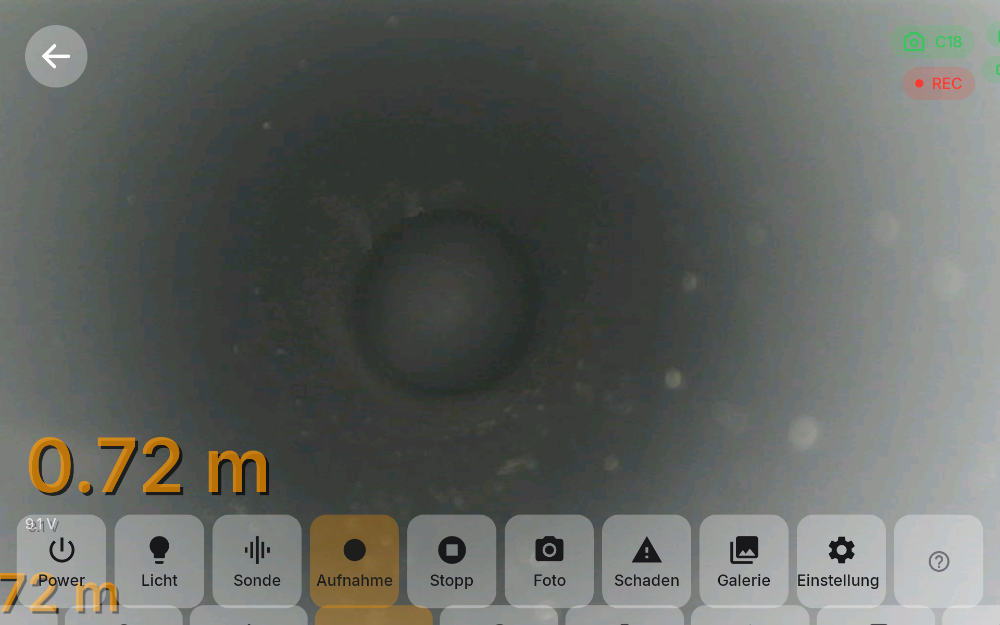
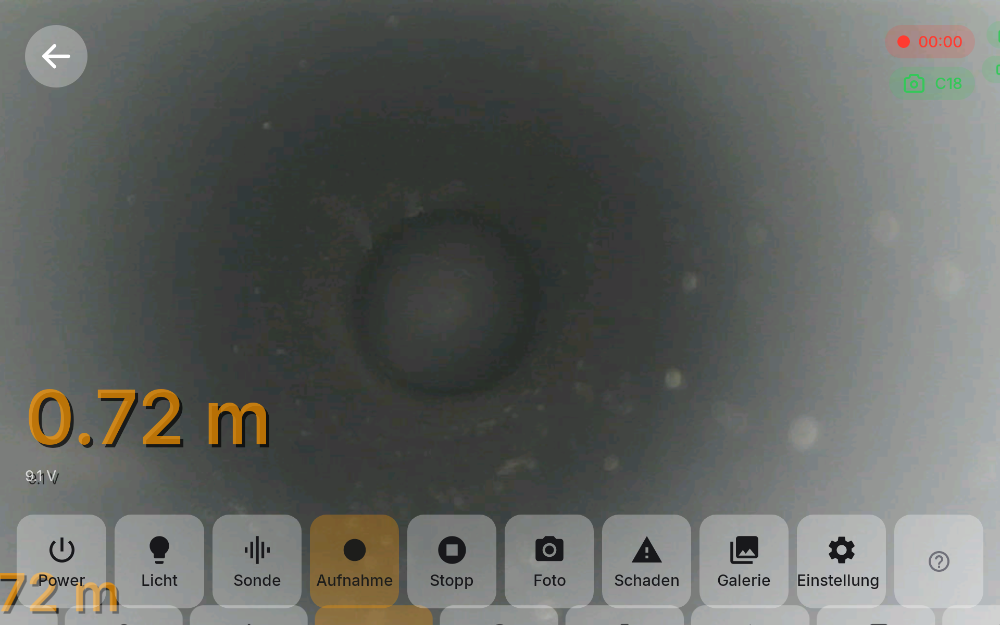
fix(bedienbild Z-1/Z-2): Meterwert oberhalb des Bandes, Aufnahmezeile statt REC-Chip
Z-1: Meterwert-Abstand zum unteren Bedienband kommt jetzt aus der gemessenen
Bandhoehe (onSizeChanged + OsdBottomGap 8dp) statt aus dem festen, nicht mehr
zur Bandhoehe passenden bottom = 84.dp (Ursache F-1, PLAN.md Abschnitt 2).

Z-2: neue RecordingClock (reines Kotlin, JVM-testbar) ersetzt die tote
recordingElapsed/recordingStartTime-Logik (F-3, kein Leser, Drift durch
delay(1000)). Neue erste Zeile oben rechts (12-dp-Punkt, 1-Hz-Blinken bei
RECORDING, Amber fest bei PAUSED, Laufzeit hh:mm:ss/mm:ss) ersetzt den
bisherigen, kaum erkennbaren REC/PAUSE-Chip (F-2, Entscheidung E-2).
DqStatusChip bekommt einen optionalen leading-Parameter (rueckwaertskompatibel).

RecordingClockTest.kt: 4 Tests, einmal rot gegen ein leeres Geruest gefahren
(belege/z2_test_rot.txt), dann gruen gegen die echte Klasse.
grep -n recordingElapsed app/src/main -> 0 Treffer.

Geraete-Beleg (Fotos/Logcat) nicht erbracht: kein Geraet angeschlossen
(adb devices leer) — siehe BERICHT.md.

Claude-Session: https://claude.ai/code/session_01EKJ9vqNUacCQh5kPLZ1moj

Changed region(s): [[0.031, 0.608, 0.279, 0.7904], [0.868, 0.0304, 0.992, 0.1824], [0.031, 0.8208, 0.062, 0.8512]]

diff --git a/app/src/main/java/com/uip/oneapp/ui/screens/inspection/InspectionScreen.kt b/app/src/main/java/com/uip/oneapp/ui/screens/inspection/InspectionScreen.kt
@@ -26,10 +26,13 @@ import androidx.compose.foundation.gestures.detectTapGestures
 import androidx.compose.foundation.gestures.detectTransformGestures
 import androidx.compose.foundation.layout.*
 import androidx.compose.foundation.rememberScrollState
+import androidx.compose.foundation.shape.CircleShape
 import androidx.compose.foundation.shape.RoundedCornerShape
+import androidx.compose.ui.draw.alpha
 import androidx.compose.foundation.verticalScroll
 import androidx.compose.ui.draw.clip
 import androidx.compose.ui.draw.rotate
+import androidx.compose.ui.layout.onSizeChanged
 import androidx.compose.ui.platform.LocalDensity
 import androidx.compose.ui.unit.IntOffset
 import androidx.compose.ui.unit.IntRect
@@ -93,6 +96,7 @@ import com.uip.oneapp.ui.screens.projects.cameraTypePrefill
 import com.uip.oneapp.ui.screens.settings.SettingsViewModel
 import com.uip.oneapp.ui.screens.settings.settingsStore
 import com.uip.oneapp.ui.theme.*
+import kotlinx.coroutines.isActive
 import kotlinx.coroutines.flow.collect
 import kotlinx.coroutines.flow.distinctUntilChanged
 import kotlinx.coroutines.flow.map
@@ -186,6 +190,12 @@ fun InspectionScreen(
     // Unteres Bedien-Band: nicht mehr permanent — fährt nur auf Video-Tipp ein und
     // blendet nach ~4 s Inaktivität bzw. erneutem Tipp wieder aus.
     var showBottomBar by remember { mutableStateOf(previewShowBottomBar) }
+    // Gemessene Höhe des unteren Bands (Auftrag bedienbild Z-1) — Startwert vor der ersten
+    // Messung, damit kein erstes Bild mit Überdeckung entsteht; die Messung ersetzt ihn danach.
+    val osdDensity = LocalDensity.current
+    var bottomBarHeightPx by remember {
+        mutableIntStateOf(with(osdDensity) { (Dimensions.SoftButtonHeight + Dimensions.Space16 * 2).roundToPx() })
+    }
     var lastBottomBarMs by remember { mutableLongStateOf(0L) }
     var lastInteractionMs by remember { mutableLongStateOf(0L) }
     var videoScale by remember { mutableFloatStateOf(1f) }
@@ -253,8 +263,6 @@ fun InspectionScreen(
     var recordingFilePath by remember { mutableStateOf<String?>(null) }
     var showRecordingDialog by remember { mutableStateOf(false) }
     var exoPlayerRef by remember { mutableStateOf<ExoPlayer?>(null) }
-    var recordingStartTime by remember { mutableLongStateOf(0L) }
-    var recordingElapsed by remember { mutableStateOf("00:00") }
     var showProjectName by remember { mutableStateOf(false) }
     var recordingProjectName by remember { mutableStateOf("") }
 
@@ -356,30 +364,59 @@ fun InspectionScreen(
         }
     }
 
-    // Recording duration timer + overlay entry collection
+    // Overlay entry collection (Zeitanzeige jetzt ueber RecordingClock/recIndicator, Auftrag
+    // bedienbild Z-2 — die alte Zeitanzeige-Variable (F-3, toter Schreibzugriff) ist entfernt).
     LaunchedEffect(isRecording) {
         if (isRecording) {
-            recordingStartTime = System.currentTimeMillis()
             showProjectName = true
             while (true) {
                 if (localRecorder.isPaused) {
-                    // Pause: Startzeit mitschieben, damit der Timer stehen bleibt —
-                    // die Pausenzeit zählt nicht zur Aufnahmedauer (Video enthält sie nicht).
-                    recordingStartTime += 1000
                     kotlinx.coroutines.delay(1000)
                     continue
                 }
-                val elapsed = (System.currentTimeMillis() - recordingStartTime) / 1000
-                val min = elapsed / 60
-                val sec = elapsed % 60
-                recordingElapsed = String.format("%02d:%02d", min, sec)
                 // Phase 5: update FFmpegRtspRecorder drawtext file with current OSD line2
                 ffmpegRecorder.updateOsdLine2(buildOsdLine2(meterValue, osdSettings))
                 kotlinx.coroutines.delay(1000)
             }
         } else {
-            recordingElapsed = "00:00"
             showProjectName = false
+        }
+    }
+
+    // Auftrag bedienbild Z-2: Anzeigezustand der neuen Aufnahmezeile — genau sichtbar bei
+    // laufend/pausiert/wird fertiggestellt, nie bei blosser offener Inspektion.
+    val recIndicator = when {
+        localRecState == com.uip.oneapp.network.RecordingState.FINISHING ->
+            com.uip.oneapp.network.RecordingState.FINISHING
+        localRecState == com.uip.oneapp.network.RecordingState.PAUSED ->
+            com.uip.oneapp.network.RecordingState.PAUSED
+        isRecording || localRecState == com.uip.oneapp.network.RecordingState.RECORDING ->
+            com.uip.oneapp.network.RecordingState.RECORDING
+        else -> null
+    }
+    val recordingClock = remember { RecordingClock() }
+    LaunchedEffect(recIndicator) { recIndicator?.let { recordingClock.onState(it) } }
+    var recElapsedDisplay by remember { mutableStateOf(formatElapsed(0L)) }
+    LaunchedEffect(recIndicator) {
+        while (recIndicator == com.uip.oneapp.network.RecordingState.RECORDING) {
+            recElapsedDisplay = formatElapsed(recordingClock.elapsedMs())
+            kotlinx.coroutines.delay(500)
+        }
+        if (recIndicator != null) {
+            recElapsedDisplay = formatElapsed(recordingClock.elapsedMs())
+        }
+    }
+    var recDotVisible by remember { mutableStateOf(true) }
+    LaunchedEffect(recIndicator == com.uip.oneapp.network.RecordingState.RECORDING) {
+        if (recIndicator == com.uip.oneapp.network.RecordingState.RECORDING) {
+            var on = true
+            while (isActive) {
+                recDotVisible = on
+                on = !on
+                kotlinx.coroutines.delay(500)
+            }
+        } else {
+            recDotVisible = true
         }
     }
 
@@ -751,7 +788,10 @@ fun InspectionScreen(
             voltage = cable.batteryLevel?.let { it / 100f * 12.6f } ?: 0f,
             modifier = Modifier
                 .align(Alignment.BottomStart)
-                .padding(start = Dimensions.OsdPadding, bottom = 84.dp)
+                .padding(
+                    start = Dimensions.OsdPadding,
+                    bottom = with(osdDensity) { bottomBarHeightPx.toDp() } + Dimensions.OsdBottomGap
+                )
         )
 
         // Popups erscheinen direkt ÜBER der jeweiligen Taste (wie Original showUpView):
@@ -793,7 +833,8 @@ fun InspectionScreen(
         Row(
             modifier = Modifier
                 .fillMaxWidth()
-                .padding(horizontal = Dimensions.Space16, vertical = Dimensions.Space16),
+                .padding(horizontal = Dimensions.Space16, vertical = Dimensions.Space16)
+                .onSizeChanged { bottomBarHeightPx = it.height },
             horizontalArrangement = Arrangement.spacedBy(Dimensions.Space8),
             verticalAlignment = Alignment.CenterVertically
         ) {
@@ -1010,6 +1051,37 @@ fun InspectionScreen(
             verticalArrangement = Arrangement.spacedBy(Dimensions.Space8),
             horizontalAlignment = Alignment.End
         ) {
+            // Auftrag bedienbild Z-2 (F-2/F-3): eigene, dritte Zeile fuer den Aufnahmezustand —
+            // ersetzt den bisherigen REC/PAUSE-Chip neben dem Akku (Entscheidung E-2, nur EINE
+            // Anzeige). Punkt 12 dp statt der unauffaelligen 8 dp, Blinken 1 Hz bei RECORDING,
+            // fest sichtbar bei PAUSED (Amber), Laufzeit aus RecordingClock (F-3).
+            if (recIndicator != null) {
+                val recLabel = when (recIndicator) {
+                    com.uip.oneapp.network.RecordingState.FINISHING -> S("encoding")
+                    else -> recElapsedDisplay
+                }
+                val recColor = if (recIndicator == com.uip.oneapp.network.RecordingState.PAUSED) {
+                    DrainQTheme.colors.amber
+                } else {
+                    DrainQTheme.colors.error
+                }
+                DqStatusChip(
+                    text = recLabel,
+                    color = recColor,
+                    showDot = false,
+                    leading = {
+                        if (recIndicator != com.uip.oneapp.network.RecordingState.FINISHING) {
+                            Box(
+                                Modifier
+                                    .size(Dimensions.RecDotSize)
+                                    .alpha(if (recDotVisible) 1f else 0f)
+                                    .clip(CircleShape)
+                                    .background(recColor)
+                            )
+                        }
+                    }
+                )
+            }
             // Kamerakopf-Chip — Live-Anzeige (NICHT im Projekt gespeichert), gespeist aus
             // der seriellen GROUP_CAMERA-Telemetrie (debounced payload[4]).
             // Detektion (C10=0x01/C18=0x02) hat Vorrang; bei UNKNOWN greift der manuelle
@@ -1032,15 +1104,6 @@ fun InspectionScreen(
                 horizontalArrangement = Arrangement.spacedBy(Dimensions.Space8),
                 verticalAlignment = Alignment.CenterVertically
             ) {
-                if (isRecording || localRecState == com.uip.oneapp.network.RecordingState.FINISHING) {
-                    val recLabel = when {
-                        localRecState == com.uip.oneapp.network.RecordingState.FINISHING -> S("encoding")
-                        isRecordingPaused -> "PAUSE"
-                        else -> "REC"
-                    }
-                    val recColor = if (isRecordingPaused) DrainQTheme.colors.amber else DrainQTheme.colors.error
-                    DqStatusChip(text = recLabel, color = recColor, showDot = !isRecordingPaused)
-                }
                 // Nur EIN Chip in der Ecke: Akku des Android-Systems (immer sichtbar).
                 // < 20 % = error, sonst success. Beim Laden Lade-Icon statt Akku-Icon.
                 // Hinweis: der serielle cable.batteryLevel/GROUP_CAMERA-Pfad ist hierfür tot.

diff --git a/app/src/test/java/com/uip/oneapp/ui/screens/inspection/RecordingClockTest.kt b/app/src/test/java/com/uip/oneapp/ui/screens/inspection/RecordingClockTest.kt
@@ -1,0 +1,56 @@
+package com.uip.oneapp.ui.screens.inspection
+
+import com.uip.oneapp.network.RecordingState
+import org.junit.Assert.assertEquals
+import org.junit.Test
+
+class RecordingClockTest {
+
+    @Test
+    fun `formatElapsed formatiert die fuenf Werte aus dem Auftrag`() {
+        assertEquals("00:00", formatElapsed(0L))
+        assertEquals("00:59", formatElapsed(59_000L))
+        assertEquals("59:59", formatElapsed(3_599_000L))
+        assertEquals("1:00:00", formatElapsed(3_600_000L))
+        assertEquals("1:01:01", formatElapsed(3_661_000L))
+    }
+
+    @Test
+    fun `Uhr zaehlt nur waehrend RECORDING, Pause haelt an, weiter zaehlen addiert`() {
+        var t = 0L
+        val clock = RecordingClock(now = { t })
+
+        clock.onState(RecordingState.RECORDING)
+        t += 10_000
+        clock.onState(RecordingState.PAUSED)
+        assertEquals(10_000L, clock.elapsedMs())
+
+        t += 20_000 // waehrend PAUSED vergangene Zeit zaehlt nicht
+        assertEquals(10_000L, clock.elapsedMs())
+
+        clock.onState(RecordingState.RECORDING)
+        t += 5_000
+        assertEquals(15_000L, clock.elapsedMs())
+    }
+
+    @Test
+    fun `IDLE setzt die Uhr auf 0 zurueck`() {
+        var t = 0L
+        val clock = RecordingClock(now = { t })
+        clock.onState(RecordingState.RECORDING)
+        t += 7_000
+        clock.onState(RecordingState.IDLE)
+        assertEquals(0L, clock.elapsedMs())
+    }
+
+    @Test
+    fun `FINISHING friert den erreichten Wert ein`() {
+        var t = 0L
+        val clock = RecordingClock(now = { t })
+        clock.onState(RecordingState.RECORDING)
+        t += 12_000
+        clock.onState(RecordingState.FINISHING)
+        t += 30_000
+        assertEquals(12_000L, clock.elapsedMs())
+    }
+}

diff --git a/app/src/main/java/com/uip/oneapp/ui/screens/inspection/RecordingClock.kt b/app/src/main/java/com/uip/oneapp/ui/screens/inspection/RecordingClock.kt
@@ -1,0 +1,41 @@
+package com.uip.oneapp.ui.screens.inspection
+
+import com.uip.oneapp.network.RecordingState
+
+/**
+ * Auftrag bedienbild Z-2 (F-3): Laufzeit aus Zustandsübergängen, nicht aus Schleifentakt —
+ * kein Nachlaufen, keine Drift. Pausiert bei PAUSED (CEO-Entscheid), friert bei FINISHING ein.
+ * Reines Kotlin ohne Android-Abhängigkeit, damit ein JVM-Test mit Fake-Uhr möglich ist.
+ */
+class RecordingClock(private val now: () -> Long = System::currentTimeMillis) {
+    private var accumulatedMs = 0L
+    private var runningSince: Long? = null
+
+    fun onState(state: RecordingState) {
+        when (state) {
+            RecordingState.RECORDING -> if (runningSince == null) runningSince = now()
+            RecordingState.PAUSED, RecordingState.FINISHING -> {
+                runningSince?.let { accumulatedMs += now() - it }
+                runningSince = null
+            }
+            RecordingState.IDLE -> {
+                accumulatedMs = 0L
+                runningSince = null
+            }
+        }
+    }
+
+    fun elapsedMs(): Long = accumulatedMs + (runningSince?.let { now() - it } ?: 0L)
+}
+
+fun formatElapsed(ms: Long): String {
+    val totalSeconds = ms / 1000
+    val hours = totalSeconds / 3600
+    val minutes = (totalSeconds % 3600) / 60
+    val seconds = totalSeconds % 60
+    return if (hours > 0) {
+        String.format("%d:%02d:%02d", hours, minutes, seconds)
+    } else {
+        String.format("%02d:%02d", minutes, seconds)
+    }
+}

diff --git a/app/src/main/java/com/uip/oneapp/ui/theme/Dimensions.kt b/app/src/main/java/com/uip/oneapp/ui/theme/Dimensions.kt
@@ -149,6 +149,7 @@ object Dimensions {
     val IconButtonSize     = 56.dp   // Touch-Icon-Button (min 48)
     val BackButtonSize     = 60.dp   // Inspektion Zurück-Affordanz (~25 % größer als 48-dp-Default)
     val SoftButtonHeight   = 90.dp   // Inspektions-Leiste (~80 % — weniger Videoverdeckung; Icon/Label unverändert)
+    val OsdBottomGap       = 8.dp    // Grundlinie Meterwert über Bandoberkante, Auftrag bedienbild Z-1
     val NavItemHeight      = 84.dp   // Nav-Eintrag (SA)
     val HeaderHeight       = 64.dp   // App-Header
     val CardPadding        = 16.dp
@@ -171,6 +172,7 @@ object Dimensions {
 
     // Komponenten-Maße (SA)
     val PillHeight     = 32.dp   // DqPill/DqStatusChip
+    val RecDotSize     = 12.dp   // Aufnahme-Punkt in der Anzeigezeile (Auftrag bedienbild Z-2, ersetzt den 8-dp-Chip-Punkt)
     val ToggleWidth    = 64.dp   // DqToggle
     val ToggleHeight   = 36.dp
     val ToggleKnob     = 28.dp

diff --git a/app/src/main/java/com/uip/oneapp/ui/components/DqComponents.kt b/app/src/main/java/com/uip/oneapp/ui/components/DqComponents.kt
@@ -208,6 +208,9 @@ fun DqStatusChip(
     modifier: Modifier = Modifier,
     showDot: Boolean = true,
     iconKey: String? = null,
+    // Auftrag bedienbild Z-2 (F-2): eigenes Leading-Element statt des 8-dp-Punkts, z. B. ein
+    // groesserer, blinkender Aufnahme-Punkt. Optional, aendert keine bestehende Aufrufstelle.
+    leading: (@Composable () -> Unit)? = null,
 ) {
     Surface(
         shape = PillShape,
@@ -219,6 +222,10 @@ fun DqStatusChip(
             verticalAlignment = Alignment.CenterVertically,
             horizontalArrangement = Arrangement.Center,
         ) {
+            if (leading != null) {
+                leading()
+                Spacer(Modifier.width(Dimensions.Space8))
+            }
             if (iconKey != null) {
                 DqIcon(iconKey, size = Dimensions.DqIconInline, tint = color)
                 Spacer(Modifier.width(Dimensions.Space8))
